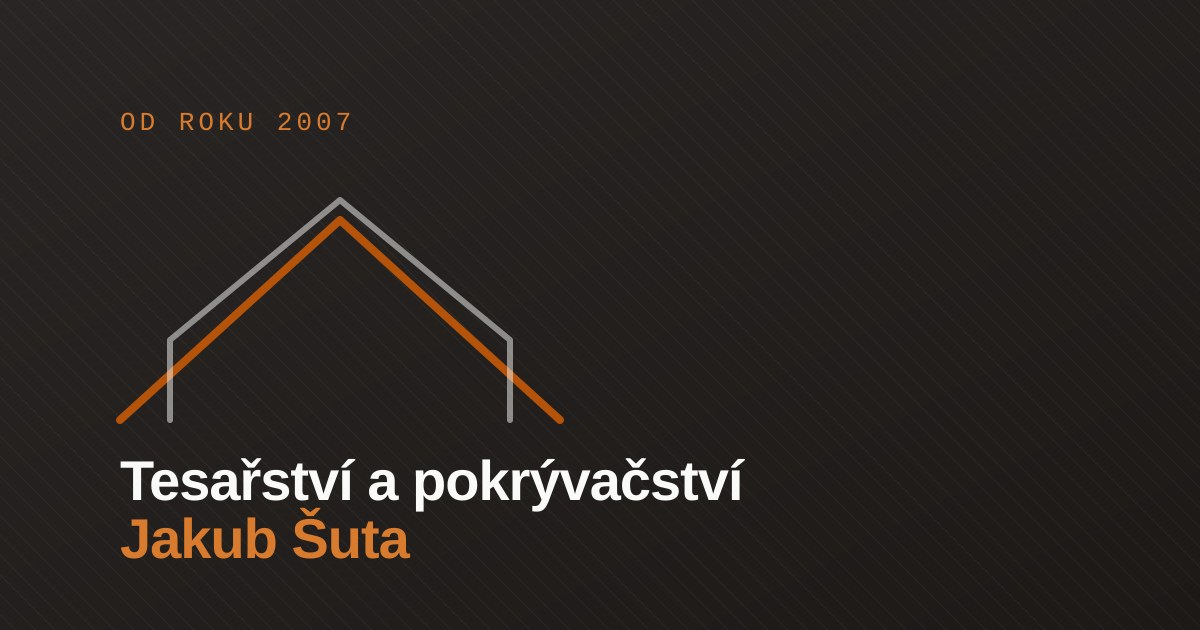
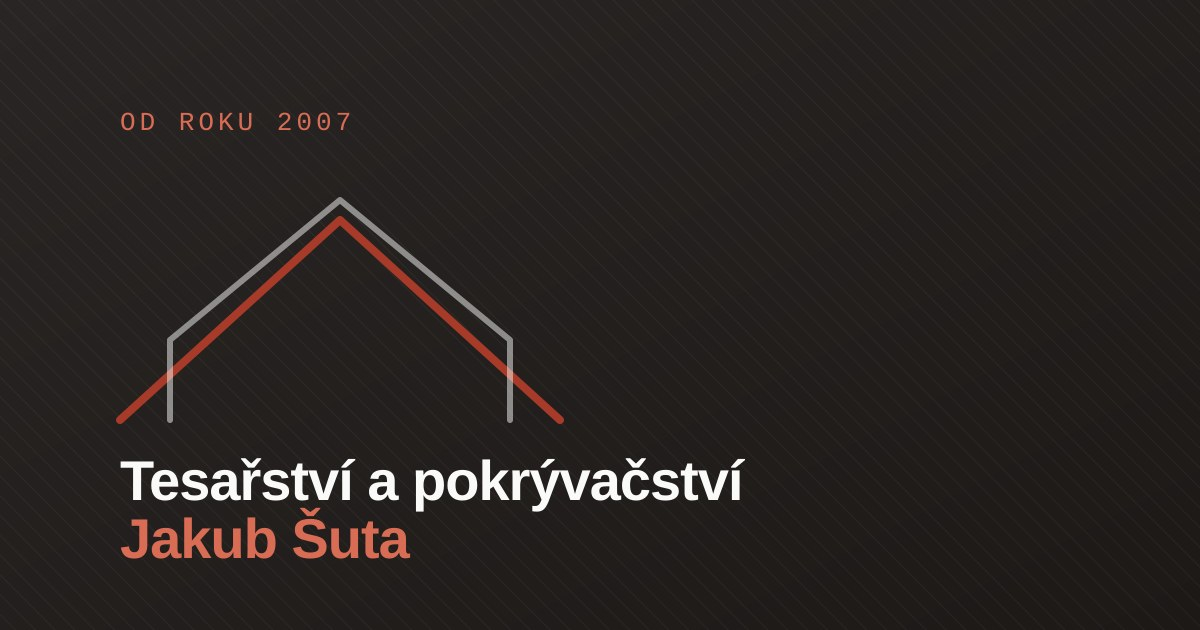
Add files via upload

diff --git a/css/style.css b/css/style.css
@@ -11,8 +11,8 @@
   --color-secondary: #292524;
   --color-bg: #FAFAF8;
   --color-bg-alt: #F1EEE8;
-  --color-accent: #B45309;
-  --color-accent-light: #D97B2E;
+  --color-accent: #A83A2A;
+  --color-accent-light: #D96C55;
   --color-text-muted: #78716C;
   --color-border: #E7E2DB;
   --color-white: #FFFFFF;

diff --git a/css/admin.css b/css/admin.css
@@ -10,7 +10,7 @@
   --a-border: #E4E0D8;
   --a-text: #1C1917;
   --a-muted: #78716C;
-  --a-accent: #B45309;
+  --a-accent: #A83A2A;
   --a-danger: #B42318;
   --a-success: #1a7a4c;
   --a-radius: 6px;
